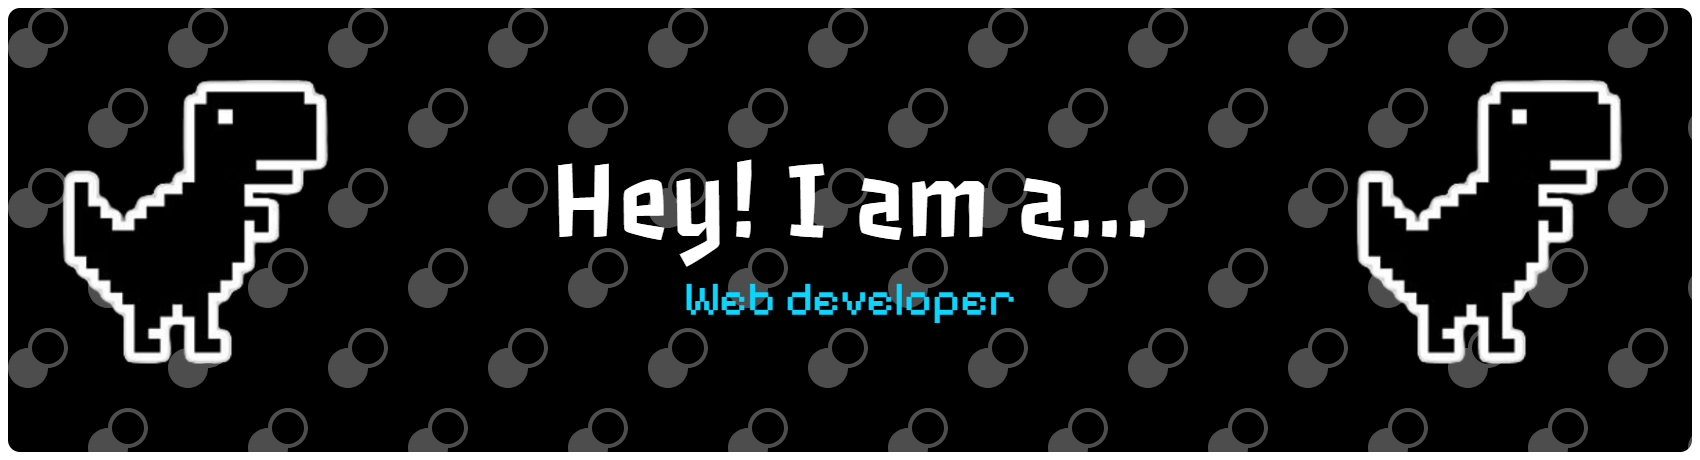
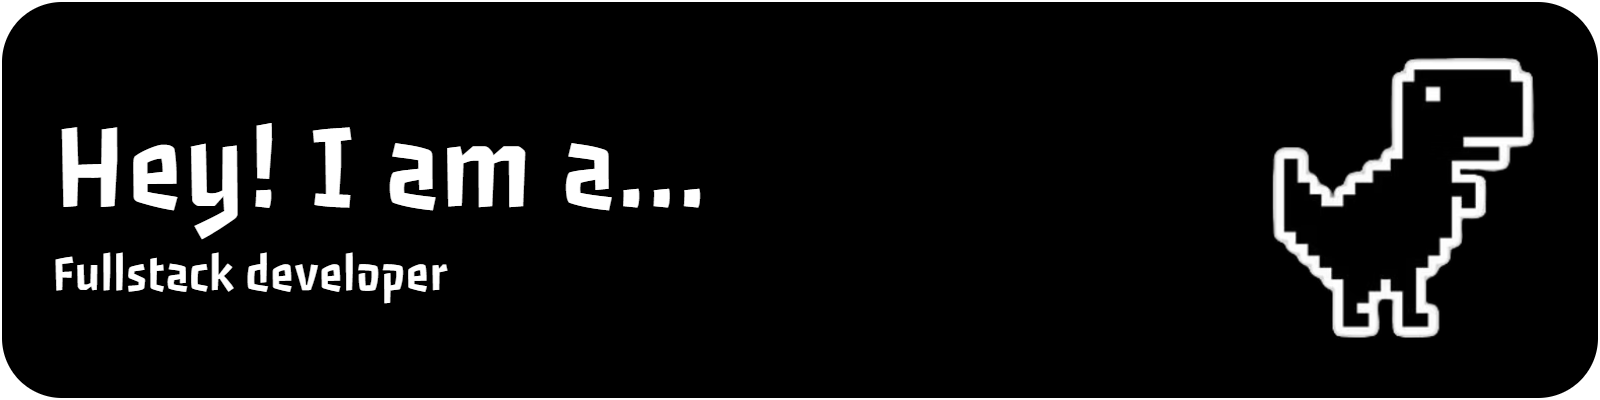
README actualizado

diff --git a/README.md b/README.md
@@ -1,6 +1,20 @@
 ![Header](images/github-header-banner.png)
 
-## Hi there 👋
+# <img src="https://raw.githubusercontent.com/Tarikul-Islam-Anik/Animated-Fluent-Emojis/master/Emojis/Travel%20and%20places/Fire.png" width="30" alt="fire" /> My name is Christian, Welcome to my profile!
+
+I'm **Christian**, a Fullstack Developer passionate about crafting efficient web applications and turning ideas into code.
+
+## 🛠 Tech Stack & Tools
+
+![HTML5](https://img.shields.io/badge/HTML5-E34F26?style=flat&logo=html5&logoColor=white)
+![Git](https://img.shields.io/badge/Git-F05032?style=flat&logo=git&logoColor=white)
+![Java](https://img.shields.io/badge/Java-ED8B00?style=flat&logo=openjdk&logoColor=white)
+![JavaScript](https://img.shields.io/badge/JavaScript-F7DF1E?style=flat&logo=javascript&logoColor=black)
+![CSS](https://img.shields.io/badge/CSS-1572B6?style=flat&logo=css3&logoColor=white)
+![PHP](https://img.shields.io/badge/PHP-777BB4?style=flat&logo=php&logoColor=white)
+![Docker](https://img.shields.io/badge/Docker-2496ED?style=flat&logo=docker&logoColor=white)
+![Vue.js](https://img.shields.io/badge/Vue.js-35495E?style=flat&logo=vuedotjs&logoColor=4FC08D)
+![GitHub](https://img.shields.io/badge/GitHub-100000?style=flat&logo=github&logoColor=white)
 
 <!--
 **alblujan/alblujan** is a ✨ _special_ ✨ repository because its `README.md` (this file) appears on your GitHub profile.
